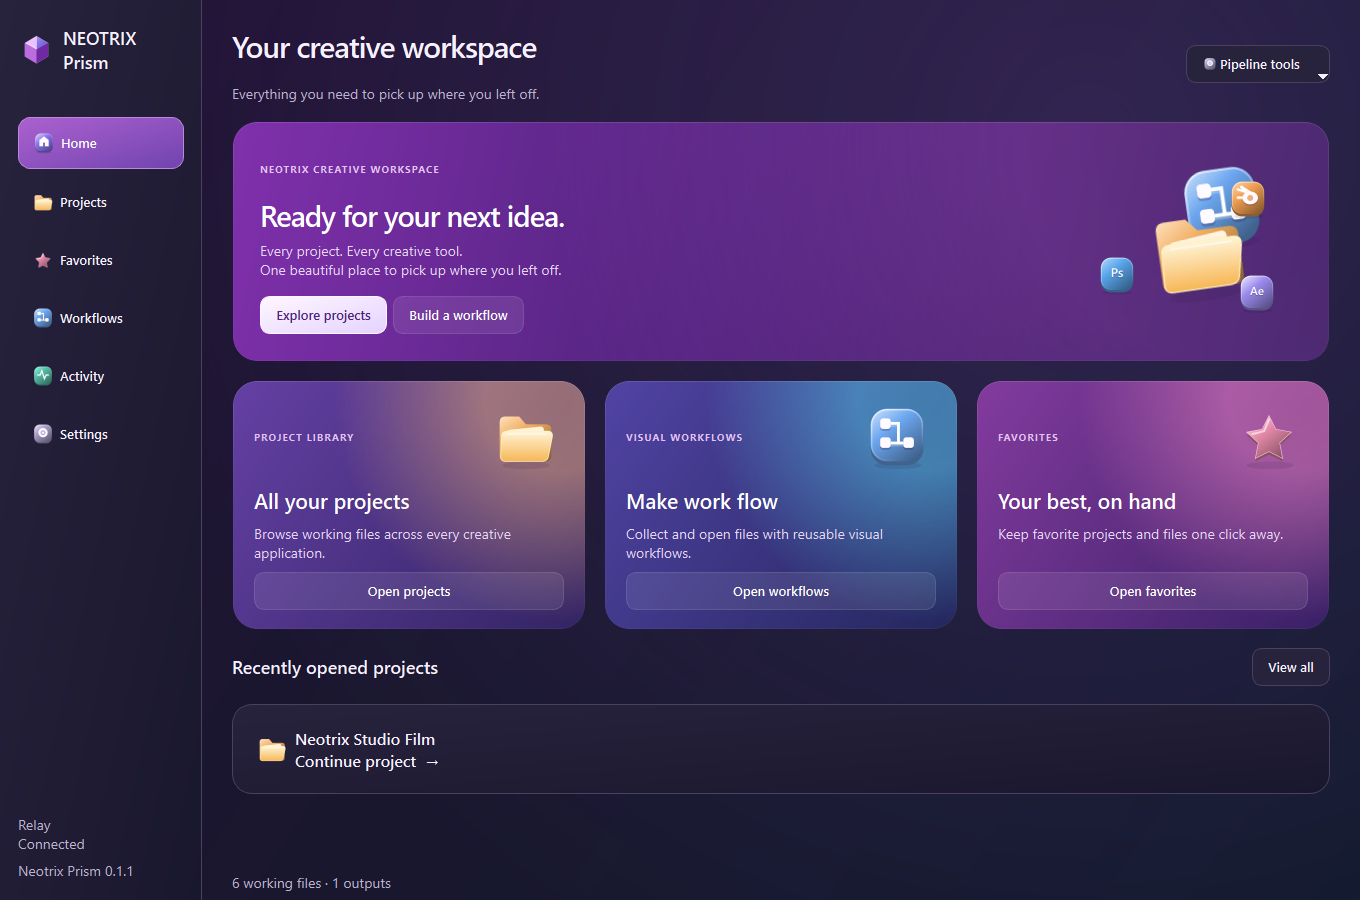
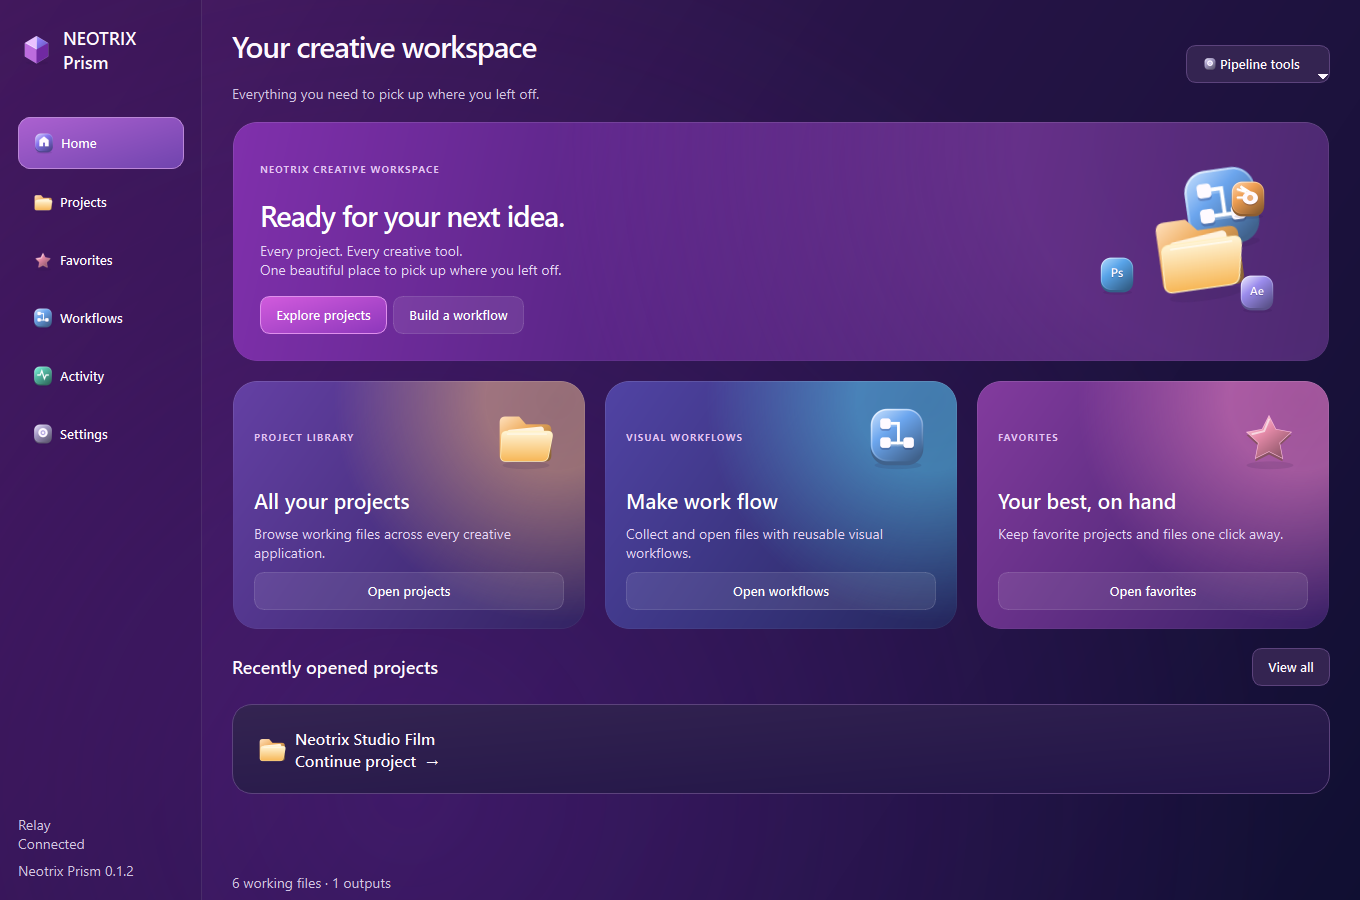
Use a continuous colored backdrop across the Neotrix workspace

Changed region(s): [[0.0, 0.0, 0.6794, 1.0], [0.8338, 0.84, 0.9882, 0.9022], [0.7412, 0.8711, 0.8029, 0.9022]]

diff --git a/neotrix_prism/design.py b/neotrix_prism/design.py
@@ -49,15 +49,19 @@ def icon(name, size=48):
     return QIcon(pixmap)
 
 
+def theme_tokens(dark=False):
+    """Both appearances use colored surfaces; midnight reduces their luminance."""
+    return (("#211447", "#342451", "#fff8ff", "#d3c4e3", "#5c437c", "#604080") if dark else
+            ("#422273", "#573683", "#fffaff", "#e2cfee", "#8863a3", "#7951a5"))
+
+
 def stylesheet(dark=False):
-    bg, card, text, muted, edge, selected = (
-        ("#19172e", "#28233d", "#f7f1ff", "#bdb2d1", "#49415f", "#49325f") if dark else
-        ("#eeeafa", "#faf8ff", "#302342", "#766885", "#e0d8ee", "#e6d7f6"))
+    bg, card, text, muted, edge, selected = theme_tokens(dark)
     return """
     QWidget {color: TEXT; font-family: 'Segoe UI'; font-size: 13px;}
     QMainWindow, QDialog {background: BG;}
-    QWidget#sidebar {background:qlineargradient(x1:0,y1:0,x2:1,y2:1,stop:0 CARD,stop:1 BG); border-right:1px solid EDGE;}
-    QFrame#card {background:qlineargradient(x1:0,y1:0,x2:.8,y2:1,stop:0 CARD,stop:1 BG); border:1px solid EDGE; border-radius:20px;}
+    QWidget#sidebar {background:rgba(27,10,58,45); border-right:1px solid rgba(255,255,255,24);}
+    QFrame#card {background:qlineargradient(x1:0,y1:0,x2:.8,y2:1,stop:0 CARD,stop:1 BG); border:1px solid rgba(255,255,255,35); border-radius:20px;}
     QFrame#hero, QFrame#featureTile {background:transparent; border:none;}
     QFrame#hero QLabel, QFrame#featureTile QLabel {color:#ffffff; background:transparent;}
     QFrame#hero QLabel#subtitle, QFrame#featureTile QLabel#subtitle {color:#e7d5f5;}
@@ -66,18 +70,18 @@ def stylesheet(dark=False):
     QFrame#featureTile QLabel#section {font-size:21px; font-weight:600;}
     QFrame#hero QPushButton, QFrame#featureTile QPushButton {background:rgba(255,255,255,22); color:white; border:1px solid rgba(255,255,255,35);}
     QFrame#hero QPushButton:hover, QFrame#featureTile QPushButton:hover {background:rgba(255,255,255,42); border-color:rgba(255,255,255,75);}
-    QFrame#hero QPushButton#primary {background:qlineargradient(x1:0,y1:0,x2:1,y2:1,stop:0 #fff7ff,stop:1 #e5d2ff);color:#4c257b;border:1px solid #fff7ff;}
+    QFrame#hero QPushButton#primary {background:qlineargradient(x1:0,y1:0,x2:1,y2:1,stop:0 #d25bdd,stop:1 #8c37bb);color:white;border:1px solid #df8fec;}
     QLabel#title {font-size:30px; font-weight:600; letter-spacing:-1px;}
     QLabel#subtitle {color:MUTED; font-size:14px;}
     QLabel#section {font-size:18px; font-weight:600;}
-    QLabel#eyebrow {color:#8875f0; font-size:11px; font-weight:700; letter-spacing:2px;}
+    QLabel#eyebrow {color:#e2b7f4; font-size:11px; font-weight:700; letter-spacing:2px;}
     QPushButton {background:CARD; border:1px solid EDGE; border-radius:10px; padding:9px 15px; font-weight:550;}
     QPushButton:hover {background:SELECTED; border-color:#c2b6ec;}
-    QPushButton:pressed {background:#ddd4f5; color:#37304d;}
+    QPushButton:pressed {background:#79489e; color:white;}
     QPushButton:focus, QLineEdit:focus, QComboBox:focus {border:2px solid #8a75ea;}
     QPushButton#primary {background:qlineargradient(x1:0,y1:0,x2:1,y2:1,stop:0 #ae57ce,stop:.48 #8651c2,stop:1 #6040a4); color:white; border:1px solid #b07ad4;}
     QPushButton#primary:hover {background:qlineargradient(x1:0,y1:0,x2:1,y2:1,stop:0 #c16ade,stop:1 #7550ba);}
-    QPushButton#primary:disabled {background:#c5bce7; color:white;}
+    QPushButton#primary:disabled {background:#624575; color:#d3c4e3;}
     QPushButton#nav {text-align:left; border:none; padding:12px; border-radius:12px; background:transparent;}
     QPushButton#nav:checked {background:qlineargradient(x1:0,y1:0,x2:1,y2:1,stop:0 #ac61d0,stop:1 #7044ae); color:white; border:1px solid #bb87d8;}
     QPushButton#nav:hover {background:SELECTED;}
@@ -90,6 +94,7 @@ def stylesheet(dark=False):
     QTableWidget, QListWidget, QTreeWidget {background:CARD; border:1px solid EDGE; border-radius:12px; gridline-color:EDGE; alternate-background-color:BG; selection-background-color:SELECTED; selection-color:TEXT;}
     QTableWidget::item {padding:8px; border-bottom:1px solid EDGE;}
     QHeaderView::section {background:BG; color:MUTED; border:none; padding:10px; font-weight:600;}
+    QHeaderView {background:BG;}
     QScrollArea, QStackedWidget {background:transparent; border:none;}
     QSplitter::handle {background:BG; width:9px;}
     QGraphicsView {border:1px solid EDGE; border-radius:12px;}
@@ -100,7 +105,10 @@ def stylesheet(dark=False):
     QMenu::item {padding:8px 20px; border-radius:6px;}
     QMenu::item:selected {background:SELECTED;}
     QScrollBar:vertical {background:transparent; width:8px; margin:0;}
-    QScrollBar::handle:vertical {background:#c0bbd4; border-radius:4px; min-height:28px;}
+    QScrollBar::handle:vertical {background:#956dac; border-radius:4px; min-height:28px;}
+    QScrollBar:horizontal {background:BG; height:8px;}
+    QScrollBar::handle:horizontal {background:#956dac; border-radius:4px; min-width:28px;}
+    QScrollBar::add-line:horizontal, QScrollBar::sub-line:horizontal {width:0;}
     QScrollBar::add-line:vertical, QScrollBar::sub-line:vertical {height:0;}
     QProgressBar {background:EDGE; border:none; border-radius:4px; max-height:7px; text-align:center;}
     QProgressBar::chunk {background:#8875ed; border-radius:4px;}
@@ -112,23 +120,22 @@ def stylesheet(dark=False):
 
 def palette(dark=False):
     result = QPalette()
-    for role, color in ((QPalette.Window, "#191c29" if dark else "#f5f4fb"),
-                        (QPalette.Base, "#25293a" if dark else "#ffffff"),
-                        (QPalette.WindowText, "#f2f1fa" if dark else "#292a40"),
-                        (QPalette.Text, "#f2f1fa" if dark else "#292a40"),
-                        (QPalette.Button, "#25293a" if dark else "#ffffff"),
-                        (QPalette.ButtonText, "#f2f1fa" if dark else "#292a40"),
-                        (QPalette.Highlight, "#8875ed"), (QPalette.HighlightedText, "#ffffff")):
+    bg, card, text, muted, edge, selected = theme_tokens(dark)
+    for role, color in ((QPalette.Window, bg), (QPalette.Base, card),
+                        (QPalette.AlternateBase, bg), (QPalette.WindowText, text),
+                        (QPalette.Text, text), (QPalette.Button, card),
+                        (QPalette.ButtonText, text), (QPalette.PlaceholderText, muted),
+                        (QPalette.Highlight, selected), (QPalette.HighlightedText, text)):
         result.setColor(role, QColor(color))
+    for role in (QPalette.WindowText, QPalette.Text, QPalette.ButtonText):
+        result.setColor(QPalette.Disabled, role, QColor(muted))
     return result
 
 
 def native_theme(widget, dark=False):
     """Clear upstream inline dark styles before applying shared light/dark tokens."""
     from PySide6.QtWidgets import QWidget
-    foreground = "#f2f1fa" if dark else "#292a40"
-    background = "#191c29" if dark else "#f5f4fb"
-    surface = "#25293a" if dark else "#ffffff"
+    background, surface, foreground, _, _, _ = theme_tokens(dark)
     for child in [widget] + widget.findChildren(QWidget):
         child.setStyleSheet("")
         child.setPalette(palette(dark))

diff --git a/neotrix_prism/graph_ui.py b/neotrix_prism/graph_ui.py
@@ -34,12 +34,12 @@ class NodeItem(QGraphicsObject):
     def paint(self, painter, option, widget=None):
         painter.setRenderHint(QPainter.Antialiasing)
         surface = QLinearGradient(0, 0, 205, 116)
-        surface.setColorAt(0, QColor("#41314f" if self.editor.dark else "#ffffff"))
-        surface.setColorAt(1, QColor("#25253d" if self.editor.dark else "#eee4fa"))
+        surface.setColorAt(0, QColor("#41314f" if self.editor.dark else "#79509d"))
+        surface.setColorAt(1, QColor("#25253d" if self.editor.dark else "#422775"))
         painter.setBrush(QBrush(surface))
-        painter.setPen(QPen(QColor("#9c87ed" if self.isSelected() else "#d5d3e7"), 2 if self.isSelected() else 1))
+        painter.setPen(QPen(QColor("#e1adff" if self.isSelected() else "#9673b4"), 2 if self.isSelected() else 1))
         painter.drawRoundedRect(self.boundingRect().adjusted(1, 1, -1, -1), 15, 15)
-        painter.setPen(QColor("#eeeafa" if self.editor.dark else "#34324b"))
+        painter.setPen(QColor("#fff5ff"))
         font = painter.font()
         font.setBold(True)
         painter.setFont(font)
@@ -56,7 +56,7 @@ class NodeItem(QGraphicsObject):
                 point = self.port_pos(port, direction)
                 painter.setBrush(QColor(PORT_COLORS[kind]))
                 painter.drawEllipse(point, 6, 6)
-                painter.setPen(QColor("#aaa5bf" if self.editor.dark else "#78738f"))
+                painter.setPen(QColor("#cbb5dd" if self.editor.dark else "#e5d0f4"))
                 painter.drawText(QRectF(14, point.y() - 9, 178, 20),
                                  Qt.AlignLeft if direction == "inputs" else Qt.AlignRight, port)
                 painter.setPen(Qt.NoPen)
@@ -160,10 +160,10 @@ class GraphView(QGraphicsView):
 
     def drawBackground(self, painter, rect):
         background = QLinearGradient(rect.topLeft(), rect.bottomRight())
-        background.setColorAt(0, QColor("#241e35" if self.editor.dark else "#eee4f9"))
-        background.setColorAt(1, QColor("#161e30" if self.editor.dark else "#e3eafa"))
+        background.setColorAt(0, QColor("#241e35" if self.editor.dark else "#4c267c"))
+        background.setColorAt(1, QColor("#161e30" if self.editor.dark else "#291b57"))
         painter.fillRect(rect, background)
-        painter.setPen(QPen(QColor("#36374e" if self.editor.dark else "#ddd9ed"), 1))
+        painter.setPen(QPen(QColor("#36374e" if self.editor.dark else "#6b4392"), 1))
         start_x, start_y = int(rect.left()) // 24 * 24, int(rect.top()) // 24 * 24
         for x in range(start_x, int(rect.right()), 24):
             for y in range(start_y, int(rect.bottom()), 24):

diff --git a/neotrix_prism/surfaces.py b/neotrix_prism/surfaces.py
@@ -10,13 +10,13 @@ class Atmosphere(QWidget):
     def paintEvent(self, event):
         p = QPainter(self)
         base = QLinearGradient(0, 0, self.width(), self.height())
-        stops = [(0, "#241339"), (.45, "#19172e"), (1, "#10192b")] if self.dark else [(0, "#eedcf8"), (.45, "#efebfa"), (1, "#e3eafa")]
+        stops = [(0, "#4a1b65"), (.45, "#271447"), (1, "#100f32")] if self.dark else [(0, "#822799"), (.43, "#4b217e"), (1, "#160f48")]
         for position, color in stops:
             base.setColorAt(position, QColor(color))
         p.fillRect(self.rect(), base)
-        glow = QRadialGradient(self.width() * .8, self.height() * .15, self.width() * .7)
-        glow.setColorAt(0, QColor(159, 89, 227, 50 if self.dark else 35))
-        glow.setColorAt(1, QColor(159, 89, 227, 0))
+        glow = QRadialGradient(self.width() * .3, self.height() * .88, self.width() * .65)
+        glow.setColorAt(0, QColor(145, 44, 215, 60 if self.dark else 95))
+        glow.setColorAt(1, QColor(145, 44, 215, 0))
         p.fillRect(self.rect(), glow)
 
 

diff --git a/neotrix_prism/__init__.py b/neotrix_prism/__init__.py
@@ -1,2 +1,2 @@
 """Neotrix Prism extensions. SPDX-License-Identifier: LGPL-3.0-or-later."""
-__version__ = "0.1.1"
+__version__ = "0.1.2"

diff --git a/VALIDATION.md b/VALIDATION.md
@@ -1,4 +1,4 @@
-# Validation — Neotrix Prism 0.1.1 preview
+# Validation — Neotrix Prism 0.1.2 preview
 
 ## Verified on this workstation
 
@@ -35,6 +35,15 @@
 - Adobe panel CSS and integration packages were updated. This revision's live
   AE panel refresh was blocked by a pre-existing host save prompt; updated AE
   panel rendering and Photoshop UXP rendering require host verification.
+## 0.1.2 full-color background
+
+- Removed pale/white shell surfaces. Both appearances use purple/indigo
+  backgrounds with white text, tinted tables, forms, sidebar and workflow nodes.
+- Shared Qt palette and native Prism dialog colors match the desktop tokens,
+  including placeholders and disabled text.
+- All 18 tests pass. Native captures cover all six desktop pages at 100%, 150%
+  and 200%, both appearances, reduced motion and the minimum window size.
+
 ## Remaining host/environment checks
 
 - A true two-workstation pilot has not been run. The SMB concurrency test used

diff --git a/README.md b/README.md
@@ -4,9 +4,11 @@ A Windows creative-project workspace built on the open-source Prism Pipeline.
 Browse existing project folders across Blender, Illustrator, Photoshop, After
 Effects and Fusion, save working versions, and connect reusable file workflows.
 
-The interface uses a purple-to-indigo gradient hero, luminous translucent tiles,
-dimensional original icons and lightweight motion inspired by the current
-CleanMyMac design. Light and dark themes share the same visual system.
+The interface uses a continuous purple-to-indigo background, luminous tinted
+tiles, dimensional original icons and lightweight motion inspired by the current
+CleanMyMac design. Both appearances use colored surfaces; the dark variant
+reduces brightness. Sidebar, file lists, settings and native Prism dialogs share
+the same palette.
 
 ![Neotrix workspace](docs/screenshots/home.png)
 ![Working files across applications](docs/screenshots/projects.png)
